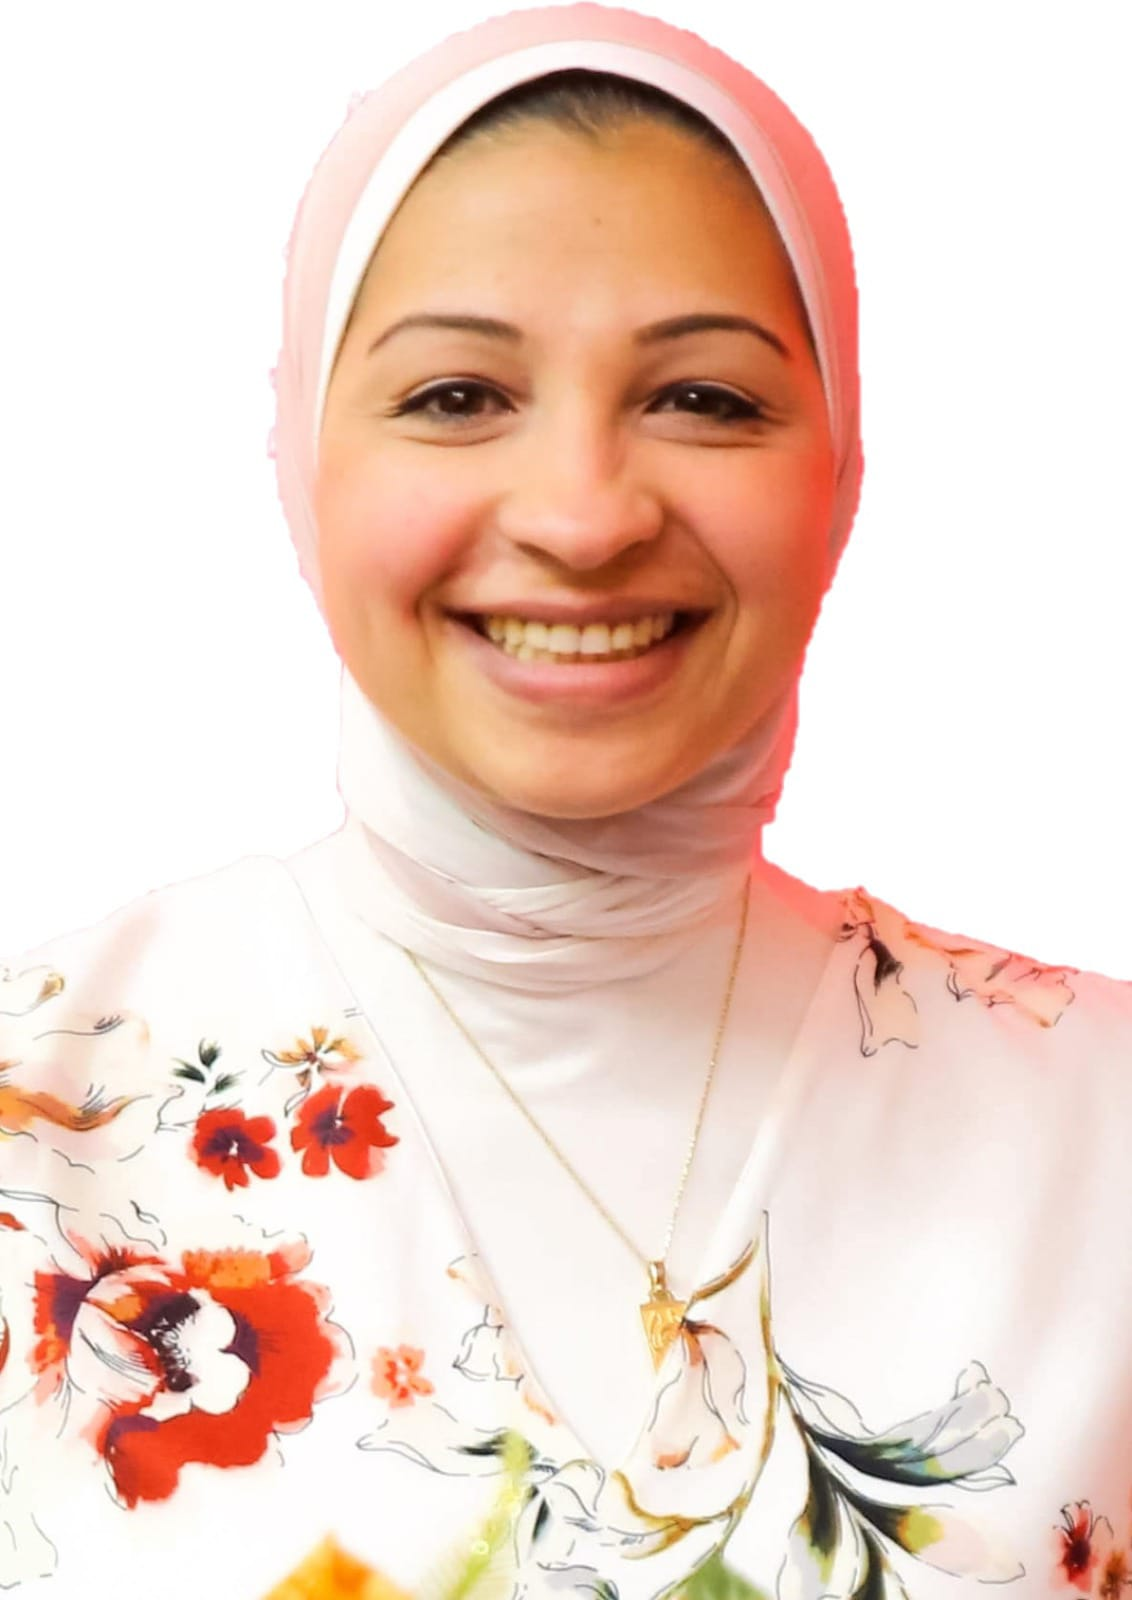
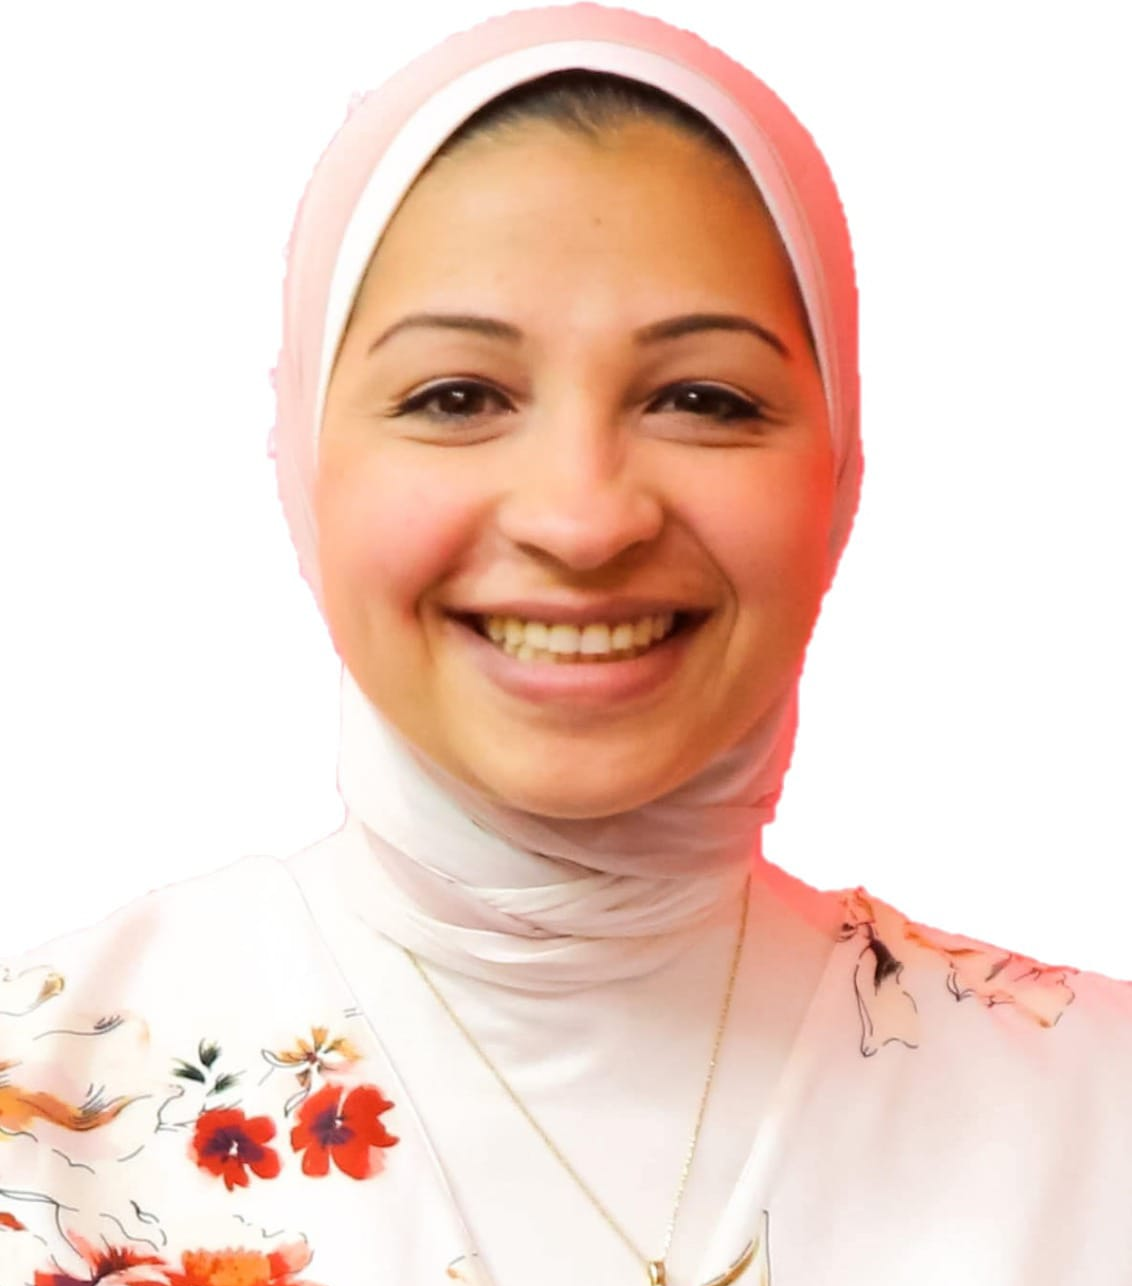
refactor: update layout and styling in About and Jury components; add language support

diff --git a/src/components/About/About.jsx b/src/components/About/About.jsx
@@ -6,10 +6,51 @@ function About() {
   const aboutData = t("about", { returnObjects: true });
 
   return (
-    <section className="pt-24 relative">
+    <section className="py-12 lg:py-24 relative">
       <div className="w-full max-w-7xl px-4 md:px-5 lg:px-5 mx-auto">
         <div className="w-full justify-start items-center lg:gap-12 gap-4 grid lg:grid-cols-2 grid-cols-1">
-          <div className="w-full justify-center items-start gap-6 grid sm:grid-cols-2 grid-cols-1 lg:order-first order-last">
+          <div className="w-full flex-col justify-center lg:items-start items-center gap-10 inline-flex">
+            <div className="w-full flex-col justify-center items-start gap-8 flex" data-aos="fade-left">
+              <div className="w-full flex-col justify-start lg:items-start items-center gap-3 flex">
+                <h2 className="text-gold/90 text-4xl font-bold font-manrope leading-normal lg:text-start text-center">
+                  {aboutData.slogan}
+                </h2>
+                <p className="text-transparent bg-clip-text bg-gradient-to-l from-blue-950 to-gray-800 leading-relaxed  ">
+                  {aboutData.desc}
+                </p>
+              </div>
+              <div className="w-full lg:justify-start justify-center items-center sm:gap-10 gap-5 inline-flex">
+                <div className="flex-col justify-start items-start inline-flex">
+                  <h3 className="text-gold/90 text-4xl font-bold font-manrope leading-normal">
+                    {aboutData.stat1Num} +
+                  </h3>
+                  <h6 className="text-transparent bg-clip-text bg-gradient-to-l from-blue-950 to-gray-800 leading-relaxed">
+                    {aboutData.stat1}
+
+                  </h6>
+                </div>
+                <div className="flex-col justify-start items-start inline-flex">
+                  <h4 className="text-gold/90 text-4xl font-bold font-manrope leading-normal text-center">
+                    {aboutData.stat2Num} +
+
+                  </h4>
+                  <h6 className="text-transparent bg-clip-text bg-gradient-to-l from-blue-950 to-gray-800 text-base font-normal leading-relaxed">
+                    {aboutData.stat2}
+
+                  </h6>
+                </div>
+                <div className="flex-col justify-start items-start inline-flex">
+                  <h4 className="text-gold/90 text-4xl font-bold font-manrope leading-normal text-center">
+                    {aboutData.stat3Num} +
+                  </h4>
+                  <h6 className="text-transparent bg-clip-text bg-gradient-to-l from-blue-950 to-gray-800 text-base font-normal leading-relaxed">
+                    {aboutData.stat3}
+                  </h6>
+                </div>
+              </div>
+            </div>
+          </div>
+          <div className="w-full justify-center items-start gap-6 lg:grid sm:grid-cols-2 grid-cols-1 hidden">
             <div className="pt-24 lg:justify-center sm:justify-end justify-start items-start gap-2.5 flex">
               <img
                 className=" rounded-xl object-cover"
@@ -24,47 +65,6 @@ function About() {
               alt="about Us image"
               data-aos="fade-down"
             />
-          </div>
-          <div className="w-full flex-col justify-center lg:items-start items-center gap-10 inline-flex">
-            <div className="w-full flex-col justify-center items-start gap-8 flex" data-aos="fade-left">
-              <div className="w-full flex-col justify-start lg:items-start items-center gap-3 flex">
-                <h2 className="text-gold/90 text-4xl font-bold font-manrope leading-normal lg:text-start text-center">
-                  {aboutData.slogan}
-                </h2>
-                <p className="text-transparent bg-clip-text bg-gradient-to-l from-blue-950 to-gray-800 leading-relaxed  ">
-                    {aboutData.desc}
-                </p>
-              </div>
-              <div className="w-full lg:justify-start justify-center items-center sm:gap-10 gap-5 inline-flex">
-                <div className="flex-col justify-start items-start inline-flex">
-                  <h3 className="text-gold/90 text-4xl font-bold font-manrope leading-normal">
-                {aboutData.stat1Num} +
-                  </h3>
-                  <h6 className="text-transparent bg-clip-text bg-gradient-to-l from-blue-950 to-gray-800 leading-relaxed">
-                  {aboutData.stat1}
-
-                  </h6>
-                </div>
-                <div className="flex-col justify-start items-start inline-flex">
-                  <h4 className="text-gold/90 text-4xl font-bold font-manrope leading-normal text-center">
-                  {aboutData.stat2Num} +
-
-                  </h4>
-                  <h6 className="text-transparent bg-clip-text bg-gradient-to-l from-blue-950 to-gray-800 text-base font-normal leading-relaxed">
-                  {aboutData.stat2}
-
-                  </h6>
-                </div>
-                <div className="flex-col justify-start items-start inline-flex">
-                  <h4 className="text-gold/90 text-4xl font-bold font-manrope leading-normal text-center">
-                  {aboutData.stat3Num} +
-                  </h4>
-                  <h6 className="text-transparent bg-clip-text bg-gradient-to-l from-blue-950 to-gray-800 text-base font-normal leading-relaxed">
-                  {aboutData.stat3}
-                  </h6>
-                </div>
-              </div>
-            </div>
           </div>
         </div>
       </div>

diff --git a/src/components/Jury/Jury.jsx b/src/components/Jury/Jury.jsx
@@ -2,52 +2,46 @@ import { useTranslation } from "react-i18next";
 
 function Jury() {
   const { t } = useTranslation();
+  const lang = t("lang");
 
   const juryMembers = t("jury.juryMembers", { returnObjects: true });
 
   return (
-    <section className="pt-12 container mx-auto my-10 px-4 sm:px-6 md:my-22 lg:px-12">
+    <section className="pt-12 continer mx-auto px-4 sm:px-6 lg:px-12 w-full">
       <div className="text-center">
-        <h3 className="text-6xl text-primary p-4">{t("jury.title")}</h3>
-        <p className="text-transparent bg-clip-text bg-gradient-to-l from-blue-950 to-gray-800 text-center text-2xl p-4 mb-4">
-        {t("jury.subtitle")}
+        <h2 className=" text-3xl lg:text-5xl font-extrabold text-secondary tracking-wide leading-tight text-center">
+          {t("jury.title")}
+        </h2>
+        <p className="text-transparent bg-clip-text bg-gradient-to-l from-blue-950 to-gray-800 text-center text-2xl pt-4 pb-6">
+          {t("jury.subtitle")}
         </p>
       </div>
       <div className="flex flex-wrap-reverse justify-center gap-x-20 gap-y-2">
         {juryMembers.map((member, index) => {
           const isHeadOfJury =
             member.name === "Eng. Magdy Wahba" || member.name === "م. مجدي وهبه";
-          const isLastFour = index >= juryMembers.length - 4;
 
           return (
             <div
               key={index}
-              className={`flex flex-col bg-white shadow-xl hover:shadow-xl transition-shadow duration-300 border border-slate-200 rounded-lg my-6 overflow-hidden transform hover:scale-105 transition-transform duration-300 ${
-                isHeadOfJury
-                  ? "w-96 outline-10 outline-gold relative "
-                  : "w-80"
-              }`}
+              className={`flex flex-col bg-white shadow-none w-78 hover:shadow-md border border-slate-200 rounded-lg my-6 overflow-hidden transform transition-all duration-300 `}
             >
               {/* Add a badge for the head of the jury */}
               {isHeadOfJury && (
-                <div className="absolute top-0 right-0 bg-gold text-white px-4 py-2 rounded-bl-lg text-sm font-semibold">
-                  Head of Jury
+                <div className="absolute top-0 right-0 bg-gold/70 text-white px-4 py-2 rounded-bl-lg text-sm font-semibold">
+                  {lang == "ar" ? "رئيس لجنة التحكيم" : "Head of Jury"}
                 </div>
               )}
-              <div className="m-2.5 overflow-hidden rounded-md h-80 flex justify-center items-center">
+              <div className="overflow-hidden rounded-md h-80 flex justify-center items-center">
                 <img
-                  className={`w-full h-full select-none ${
-                    isLastFour && !isHeadOfJury
-                      ? "object-contain"
-                      : "object-cover"
-                  } `}
+                  className={`w-full h-full select-none object-cover `}
                   src={member.image}
                   alt={member.name}
                 />
               </div>
               <div className="p-6 text-center py-12">
-                <h4 className="mb-1 text-xl font-semibold">{member.name}</h4>
-                <p className="text-sm font-semibold text-transparent bg-clip-text bg-gradient-to-l from-blue-950 to-gray-800 uppercase">
+                <h4 className="mb-1 text-base font-semibold">{member.name}</h4>
+                <p className="text-xs font-semibold text-transparent bg-clip-text bg-gradient-to-l from-blue-950 to-gray-800 uppercase">
                   {member.role}
                 </p>
               </div>

diff --git a/src/pages/Home.jsx b/src/pages/Home.jsx
@@ -9,9 +9,13 @@ function Home() {
   return (
     <>
       <Landing />
-      <About/>
-      <Jury/>
+      <div className="w-full h-2 bg-red-950"></div>
+      <About />
+      <div className="w-full h-1 bg-red-950"></div>
+      <Jury />
+      <div className="w-full h-1 bg-red-950"></div>
       <PackageCards />
+      <div className="w-full h-1 bg-red-950"></div>
     </>
   );
 }
